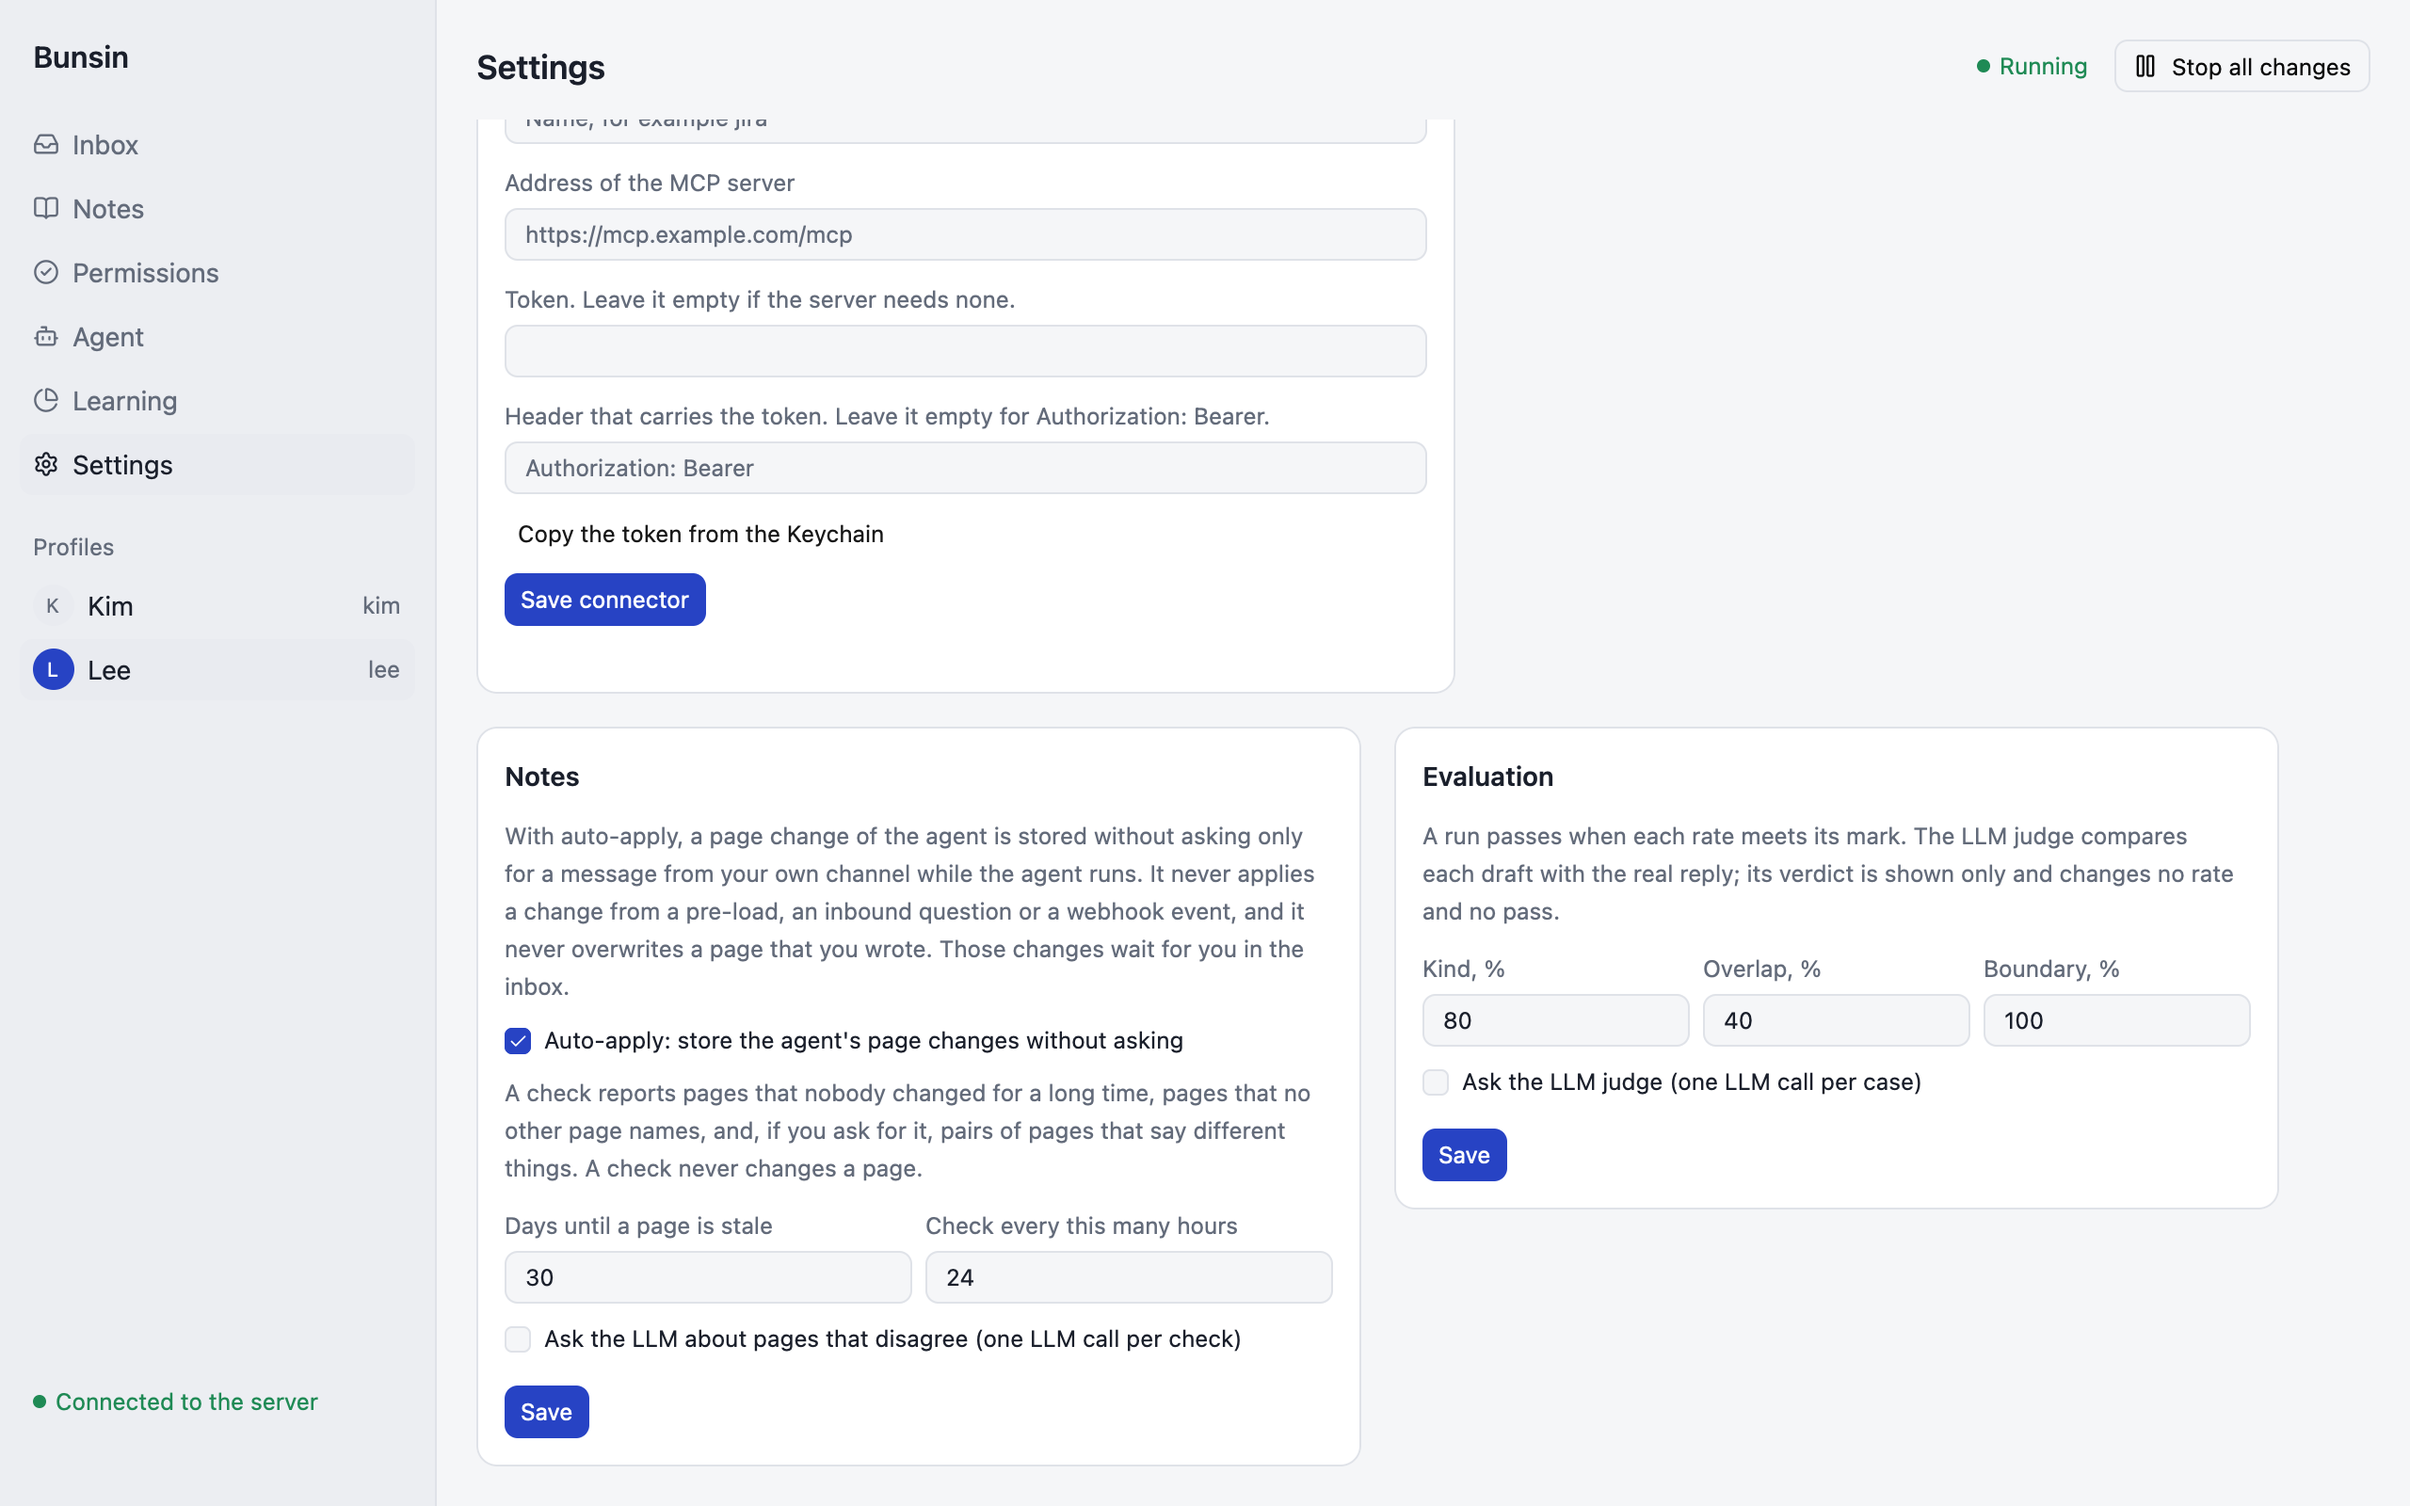
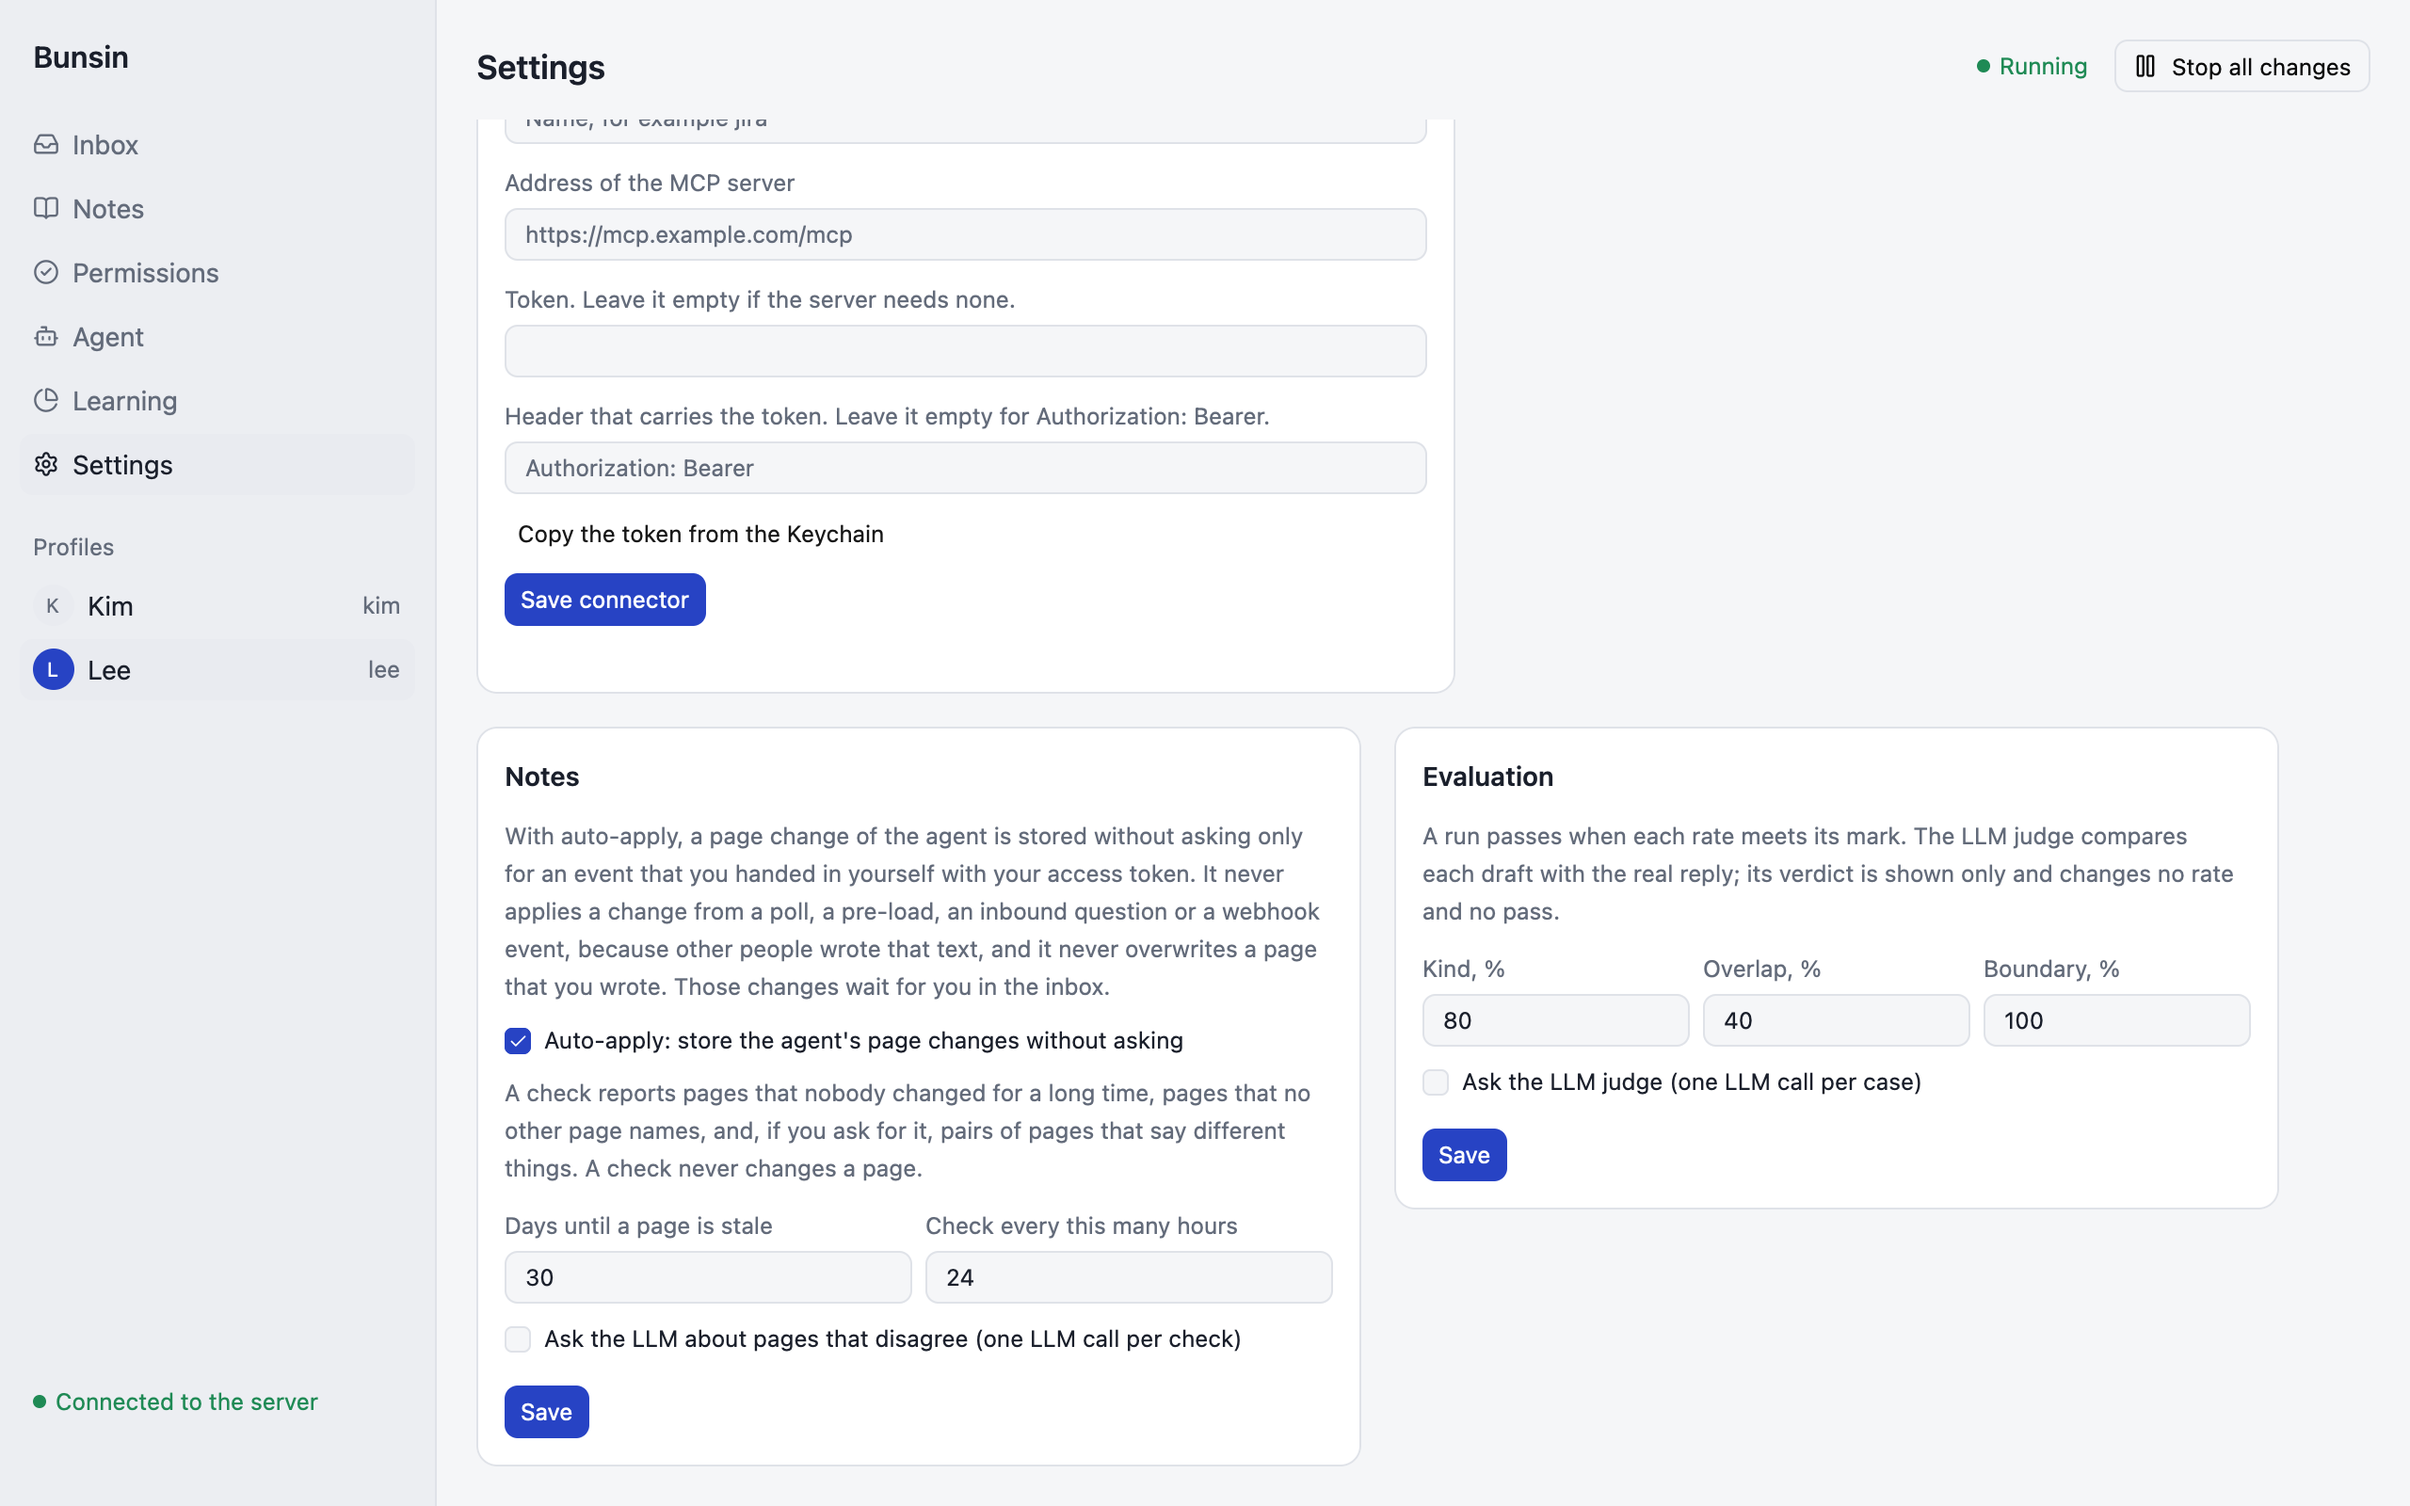
Treat the messages that a poll finds as other people's text
A poll marked its events as the owner's, so with notes auto-apply on, a message
that someone else wrote could become a lasting note without approval. A webhook
event with the same message already waited. Polls now mark events as outside, and
only an event that the owner hands in with the access token counts as the owner's.

Changed region(s): [[0.2188, 0.5625, 0.5625, 0.6562]]

diff --git a/crates/app/src/checks_form.rs b/crates/app/src/checks_form.rs
@@ -14,9 +14,9 @@ use gpui_kit::{App, AppContext, Context, Div, Entity, FontWeight, ParentElement,
 
 /// What auto-apply does, and what it never does. The engine's rules in `notes.rs` decide this.
 pub const AUTO_APPLY_HELP: &str = "With auto-apply, a page change of the agent is stored without asking only \
-    for a message from your own channel while the agent runs. It never applies a change from a pre-load, an \
-    inbound question or a webhook event, and it never overwrites a page that you wrote. Those changes wait \
-    for you in the inbox.";
+    for an event that you handed in yourself with your access token. It never applies a change from a poll, a \
+    pre-load, an inbound question or a webhook event, because other people wrote that text, and it never \
+    overwrites a page that you wrote. Those changes wait for you in the inbox.";
 const NOTES_HELP: &str = "A check reports pages that nobody changed for a long time, pages that no other page \
     names, and, if you ask for it, pairs of pages that say different things. A check never changes a page.";
 const EVAL_HELP: &str = "A run passes when each rate meets its mark. The LLM judge compares each draft with \

diff --git a/crates/engine/tests/auto_apply.rs b/crates/engine/tests/auto_apply.rs
@@ -149,7 +149,7 @@ async fn an_owner_mark_on_the_wire_is_not_trusted() {
 }
 
 #[tokio::test]
-async fn a_change_from_a_poll_is_stored_at_once() {
+async fn a_change_from_a_poll_waits() {
     let mut config = auto(true);
     config.polls = vec![poll()];
     let rig = rig_with(config).await;
@@ -165,6 +165,7 @@ async fn a_change_from_a_poll_is_stored_at_once() {
     reply["wiki_updates"] = json!([page("deploy", "Fridays.")]);
     rig.llm.reply(&reply.to_string(), 10);
     assert_eq!(rig.engine.poll_profile("kim").await.unwrap(), 1);
-    assert_eq!(change_state(&rig, "deploy").await, ApprovalState::Executed);
-    assert_eq!(body(&rig, "deploy").await.as_deref(), Some("Fridays."));
+    // Lee wrote the message, so it could steer the agent into a lasting note.
+    assert_eq!(change_state(&rig, "deploy").await, ApprovalState::Pending);
+    assert_eq!(body(&rig, "deploy").await, None);
 }

diff --git a/crates/core/src/poll.rs b/crates/core/src/poll.rs
@@ -131,7 +131,8 @@ pub fn extract(poll: &PollConfig, result: &Value) -> Result<Extracted, String> {
             thread: poll.mapping.thread.as_deref().and_then(field),
             author,
             text,
-            channel: Channel::Owner,
+            // The owner set up the search, but other people wrote what it found.
+            channel: Channel::Outside,
         });
     }
     Ok(extracted)
@@ -178,8 +179,8 @@ mod tests {
                 thread: Some("1699999999.000001".into()),
                 author: "lee".into(),
                 text: "deploy?".into(),
-                // A poll is the owner's own search.
-                channel: Channel::Owner,
+                // Other people wrote the messages that a poll finds.
+                channel: Channel::Outside,
             }
         );
         assert_eq!(extracted.events[1].thread, None);

diff --git a/crates/app/tests/checks.rs b/crates/app/tests/checks.rs
@@ -46,7 +46,7 @@ fn the_notes_settings_are_saved_and_refused_like_the_settings_file(cx: &mut Test
         // The window says what auto-apply never does.
         let help = label(window, "auto-apply-help");
         assert!(
-            help.contains("never applies a change from a pre-load, an inbound question or a webhook event"),
+            help.contains("never applies a change from a poll, a pre-load, an inbound question or a webhook event"),
             "{help}"
         );
         assert!(help.contains("never overwrites a page that you wrote"), "{help}");

diff --git a/crates/daemon/src/server.rs b/crates/daemon/src/server.rs
@@ -138,7 +138,7 @@ async fn ingest(
     Json(event): Json<InboundEvent>,
 ) -> Reply<Outcome> {
     authorize(&engine, &headers, &profile)?;
-    // The access token proves the owner. Only this route and the polls mark an event as the owner's.
+    // The access token proves the owner. Only this route marks an event as the owner's.
     let event = InboundEvent {
         channel: bunsin_core::event::Channel::Owner,
         ..event

diff --git a/README.ko.md b/README.ko.md
@@ -718,9 +718,10 @@ bunsind dismiss-finding kim 3
 
 - 새 페이지이거나, 마지막으로 agent가 쓴 페이지입니다. 사용자가 쓰거나 고친 페이지는 언제나 사용자를 기다립니다.
 - 정지 스위치가 꺼져 있습니다.
-- 이벤트가 사용자 자신의 경로(poll, 사용자가 access token으로 넣은 이벤트)로 왔습니다. 이 표시는 서버가 직접 붙입니다.
-  그 밖의 이벤트는 모두 `outside`입니다. webhook, 인바운드 호출자, 요청이나 저장소에서 읽은 표시가 해당합니다.
-  그 변경안은 언제나 사용자를 기다립니다. 다른 사람이 그런 이벤트로 agent를 조종할 수 있기 때문입니다.
+- 이벤트가 사용자 자신의 경로로 왔습니다. 사용자 자신의 경로는 사용자가 access token으로 넣은 이벤트뿐입니다. 이 표시는 서버가 직접 붙입니다.
+  그 밖의 이벤트는 모두 `outside`입니다. poll, webhook, 인바운드 호출자, 요청이나 저장소에서 읽은 표시가 해당합니다.
+  그 변경안은 언제나 사용자를 기다립니다. 다른 사람이 쓴 글이고, 그 글로 agent를 조종할 수 있기 때문입니다.
+  poll도 `outside`입니다. 검색은 사용자가 정했지만, 찾은 메시지는 다른 사람이 썼습니다.
 
 변경안은 여전히 출처가 필요하고, 승인함에 완료 상태로 남습니다. 감사 `wiki_change_applied`에 `"auto": true`가 붙습니다.
 저장할 수 없는 변경안은 대기 상태로 남습니다.

diff --git a/README.md b/README.md
@@ -839,10 +839,11 @@ agent at once, without your approval, but only if all of these hold:
 
 - the page is new, or the agent wrote it last. A page that you wrote or edited always waits for you;
 - the kill switch is off;
-- the event came through your own channel: your polls, or an event you handed in with your
-  access token. The server sets this mark itself. Every other event counts as `outside`: a
-  webhook, an inbound caller, and any event whose mark comes from the request or from storage.
-  Its changes always wait for you, because other people can write such an event to steer the agent.
+- the event came through your own channel: an event you handed in with your access token. The
+  server sets this mark itself. Every other event counts as `outside`: a poll, a webhook, an
+  inbound caller, and any event whose mark comes from the request or from storage. Its changes
+  always wait for you, because other people wrote such an event and can write it to steer the agent.
+  A poll counts as outside too: you set up the search, but other people wrote the messages it finds.
 
 The change still needs a source and still shows in the inbox, as done. The audit entry
 `wiki_change_applied` says `"auto": true`. A change that cannot be stored stays pending.
